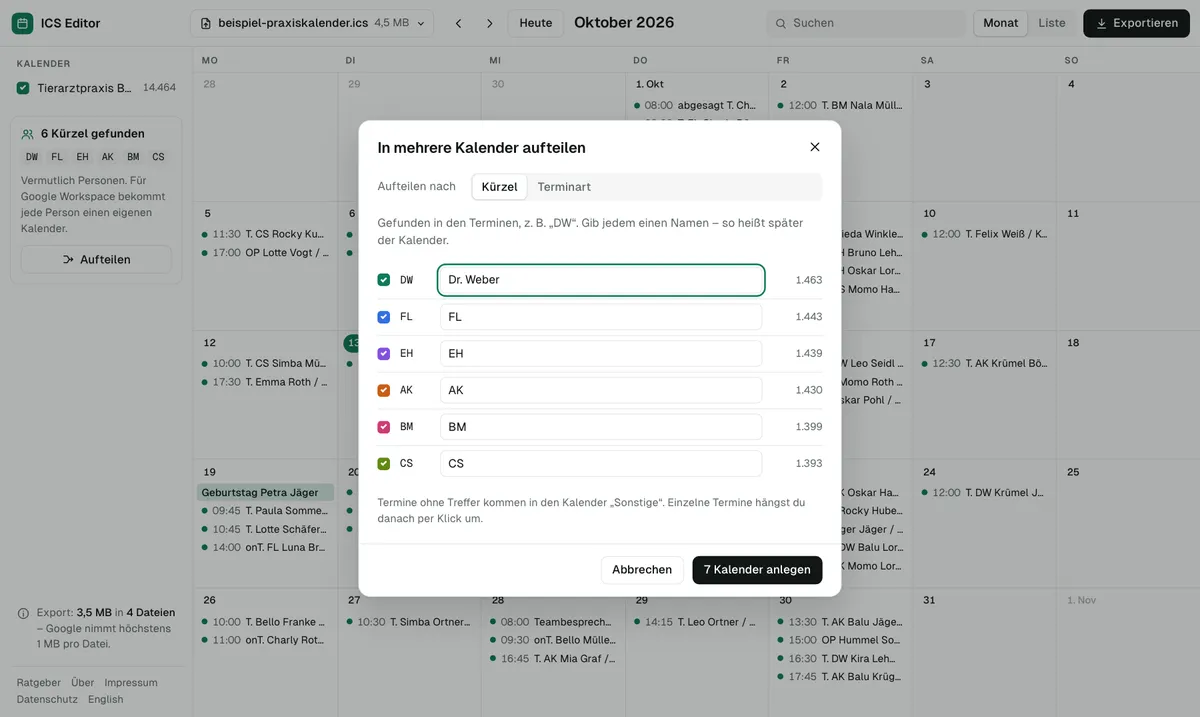
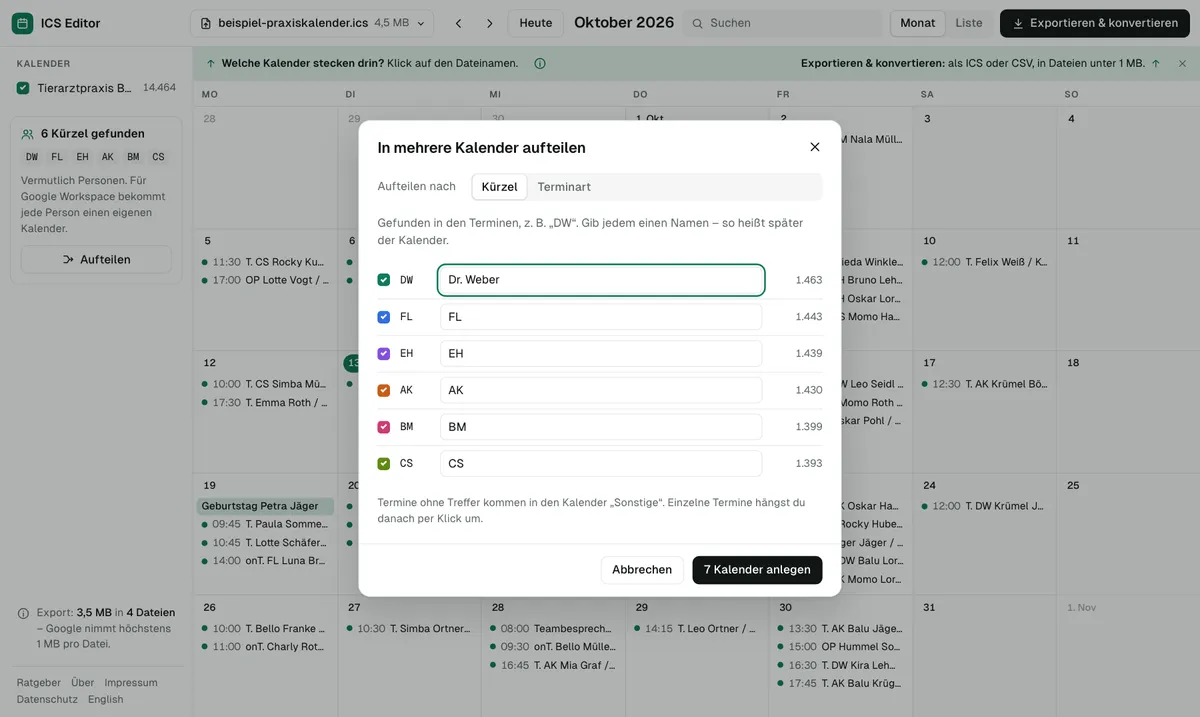
Editor: Erklär-Kasten unter der Leiste, Knopf „Exportieren & konvertieren“
- Hinweisleiste: links „Welche Kalender stecken drin? Klick auf den Dateinamen“, rechts „Exportieren & konvertieren“
- „i“ erklärt die Ansicht in vier Punkten und verlinkt den Ratgeber; Hinweise lassen sich ausblenden (wird gemerkt)
- Browser-Test für den Kasten, Bildschirmfotos aktualisiert

diff --git a/src/components/tool/Tool.tsx b/src/components/tool/Tool.tsx
@@ -68,6 +68,8 @@ function App({ h1, lead, links }: { h1: string; lead: string; links: Links }) {
   const [drawer, setDrawer] = useState(false);
   const [drag, setDrag] = useState(false);
   const [browsing, setBrowsing] = useState(false);
+  const [hints, setHints] = useState(true);
+  const [help, setHelp] = useState(false);
   const [note, setNote] = useState<{ msg: string; undo?: () => void; id: number } | null>(null);
   const fileRef = useRef<HTMLInputElement>(null);
   const searchRef = useRef<HTMLInputElement>(null);
@@ -76,6 +78,16 @@ function App({ h1, lead, links }: { h1: string; lead: string; links: Links }) {
   const convLatest = useMemo(() => latest<Loaded>(), []);
   const lastConvert = useRef('');
   const studio = screen === 'studio' && !!loaded;
+
+  useEffect(() => { try { if (localStorage.getItem('ics-editor-hints') === 'off') setHints(false); } catch { /* ohne Speicher: Hinweise zeigen */ } }, []);
+  useEffect(() => {
+    if (!help) return;
+    const close = (e: Event) => { if (e instanceof KeyboardEvent ? e.key === 'Escape' : !(e.target as HTMLElement).closest('.hint-iw')) setHelp(false); };
+    addEventListener('pointerdown', close);
+    addEventListener('keydown', close);
+    return () => { removeEventListener('pointerdown', close); removeEventListener('keydown', close); };
+  }, [help]);
+  const hideHints = () => { setHints(false); setHelp(false); try { localStorage.setItem('ics-editor-hints', 'off'); } catch { /* egal */ } };
 
   useEffect(() => {
     const idle = (window as unknown as { requestIdleCallback?: (f: () => void) => void }).requestIdleCallback;
@@ -294,7 +306,7 @@ function App({ h1, lead, links }: { h1: string; lead: string; links: Links }) {
                 <button type="button" aria-pressed={view === 'list' || !!q.trim()} onClick={() => setView('list')}>{t('k.list')}</button>
               </div>
               <button type="button" class="btn primary" aria-label={t('k.export')} onClick={() => { setActive(null); setDialog('export'); }}>
-                <Icon name="download" size={16} /><span class="bl">{t('k.export')}</span>
+                <Icon name="download" size={16} /><span class="bl">{t('k.exportShort')}<span class="bl2">{t('k.exportMore')}</span></span>
               </button>
             </div>
           </>
@@ -313,6 +325,26 @@ function App({ h1, lead, links }: { h1: string; lead: string; links: Links }) {
           </aside>
           {drawer && <div class="scrim" onClick={() => setDrawer(false)} />}
           <section class="view" aria-label={title}>
+            {hints && (
+              <div class="hints">
+                <p class="hint hint-l"><Icon name="up" size={14} /><H k="k.hint.cals" /></p>
+                <span class="hint-iw">
+                  <button type="button" class="ib hint-i" aria-label={t('k.hint.info')} title={t('k.hint.info')} aria-expanded={help} onClick={() => setHelp(!help)}><Icon name="info" size={16} /><span class="hint-il">{t('k.hint.info')}</span></button>
+                  {help && (
+                    <div class="help" role="dialog" aria-label={t('k.help.title')}>
+                      <strong>{t('k.help.title')}</strong>
+                      <ul>
+                        <H as="li" k="k.help.1" /><H as="li" k="k.help.2" /><H as="li" k="k.help.3" /><H as="li" k="k.help.4" />
+                      </ul>
+                      <a href={links.help}>{t('k.help.more')} →</a>
+                    </div>
+                  )}
+                </span>
+                <p class="hint hint-r"><H k="k.hint.export" /><Icon name="up" size={14} /></p>
+                <button type="button" class="ib hint-x" aria-label={t('k.hint.close')} title={t('k.hint.close')} onClick={hideHints}><Icon name="x" size={14} /></button>
+              </div>
+            )}
+            {!hints && <button type="button" class="ib hint-again" aria-label={t('k.hint.info')} title={t('k.hint.info')} onClick={() => { setHints(true); setHelp(true); }}><Icon name="info" size={16} /></button>}
             {issues > 0 && <div class="banner" role="status"><Icon name="warn" size={16} /> {t('k.tblBanner', { n: n(issues) })} <button type="button" class="link" onClick={() => setDialog('table')}>{t('k.tblFix')}</button></div>}
             <div class="view-in">
               {view === 'month' && !q.trim()

diff --git a/src/styles/site.css b/src/styles/site.css
@@ -168,6 +168,20 @@ html.studio-mode .tool-shell { position: fixed; inset: 0; z-index: 40; height: a
 .view { min-width: 0; min-height: 0; display: flex; flex-direction: column; }
 .view-in { flex: 1; min-height: 0; position: relative; }
 .view-in > * { position: absolute; inset: 0; }
+.view { position: relative; }
+.hints { position: relative; display: flex; align-items: center; gap: 12px; padding: 6px 8px 6px 14px; border-bottom: 1px solid var(--line); background: var(--accent-soft); font-size: 13px; }
+.hint { display: flex; align-items: center; gap: 6px; margin: 0; min-width: 0; }
+.hint svg { color: var(--accent-text); }
+.hint strong { font-weight: 600; }
+.hint-r { margin-left: auto; text-align: right; }
+.hint-i { width: 28px; height: 28px; color: var(--accent-text); }
+.hint-x { width: 26px; height: 26px; color: var(--muted); }
+.hints .ib:hover { background: color-mix(in srgb, var(--accent) 14%, transparent); }
+.hint-iw { position: relative; display: inline-flex; }
+.help { position: absolute; top: calc(100% + 8px); left: -12px; width: min(460px, calc(100vw - 32px)); z-index: 35; background: var(--bg); border: 1px solid var(--line); border-radius: 12px; box-shadow: var(--shadow); padding: 14px 16px; display: flex; flex-direction: column; gap: 8px; font-size: 14px; }
+.help ul { margin: 0; padding-left: 18px; display: flex; flex-direction: column; gap: 6px; }
+.help a { font-weight: 500; }
+.hint-again { position: absolute; right: 6px; top: 2px; z-index: 5; width: 26px; height: 26px; color: var(--muted); }
 .banner { display: flex; align-items: center; gap: 8px; padding: 8px 16px; background: var(--warn-soft); border-bottom: 1px solid var(--line); font-size: 13px; flex-wrap: wrap; }
 .banner svg { color: var(--warn); }
 .scrim { display: none; }
@@ -374,7 +388,9 @@ dialog.dlg::backdrop { background: var(--scrim); }
 .toast { position: absolute; left: 50%; bottom: 20px; transform: translateX(-50%); z-index: 70; background: var(--text); color: var(--bg); border-radius: 10px; padding: 10px 14px; display: flex; gap: 14px; align-items: center; box-shadow: var(--shadow); max-width: calc(100% - 32px); font-size: 14px; }
 .toast button { border: 0; background: none; color: inherit; font-weight: 600; text-decoration: underline; text-underline-offset: 3px; padding: 0; }
 
-@media (max-width: 1180px) { .search { width: 180px; } .app.loaded .brand { width: auto; } }
+@media (max-width: 1180px) { .search { width: 180px; } .app.loaded .brand { width: auto; } .bl2 { display: none; } }
+.hint-il { display: none; }
+@media (max-width: 900px) { .hint-l, .hint-r { display: none; } .hint-i { width: auto; padding: 0 8px; gap: 6px; display: inline-flex; font-size: 13px; } .hint-il { display: inline; } .hint-x { margin-left: auto; } }
 @media (max-width: 860px) {
   .menu-btn { display: inline-grid; }
   .app.loaded .brand .bt { display: none; }

diff --git a/src/i18n/ui.ts b/src/i18n/ui.ts
@@ -15,7 +15,19 @@ const de = {
   'k.view': 'Ansicht',
   'k.month': 'Monat',
   'k.list': 'Liste',
-  'k.export': 'Exportieren',
+  'k.export': 'Exportieren & konvertieren',
+  'k.exportShort': 'Exportieren',
+  'k.exportMore': ' & konvertieren',
+  'k.hint.cals': '<strong>Welche Kalender stecken drin?</strong> Klick auf den Dateinamen.',
+  'k.hint.export': '<strong>Exportieren &amp; konvertieren:</strong> als ICS oder CSV, in Dateien unter 1 MB.',
+  'k.hint.info': 'So funktioniert diese Ansicht',
+  'k.hint.close': 'Hinweise ausblenden',
+  'k.help.title': 'So funktioniert der ICS Editor',
+  'k.help.1': '<strong>Links</strong> stehen die Kalender deiner Datei. Mit dem Häkchen blendest du einen Kalender ein oder aus – das gilt auch für den Export.',
+  'k.help.2': '<strong>In der Mitte</strong> siehst du Monat oder Liste. Ein Klick auf einen Termin öffnet ihn rechts zum Bearbeiten.',
+  'k.help.3': '<strong>Der Dateiname oben</strong> zeigt alle Kalender der Datei mit Terminen, Zeitraum und Größe.',
+  'k.help.4': '<strong>Exportieren &amp; konvertieren</strong> erstellt ICS- oder CSV-Dateien für Google – automatisch unter 1 MB.',
+  'k.help.more': 'Ausführlich im Ratgeber',
   'k.fromDay': 'Ab {d}',
   'k.calendars': 'Kalender',
   'k.unsplit': 'Aufteilung aufheben',
@@ -593,7 +605,19 @@ const en: Dict = {
   'k.view': 'View',
   'k.month': 'Month',
   'k.list': 'List',
-  'k.export': 'Export',
+  'k.export': 'Export & convert',
+  'k.exportShort': 'Export',
+  'k.exportMore': ' & convert',
+  'k.hint.cals': '<strong>Which calendars are inside?</strong> Click the file name.',
+  'k.hint.export': '<strong>Export &amp; convert:</strong> as ICS or CSV, in files under 1 MB.',
+  'k.hint.info': 'How this view works',
+  'k.hint.close': 'Hide tips',
+  'k.help.title': 'How the ICS Editor works',
+  'k.help.1': '<strong>On the left</strong> are the calendars in your file. Tick or untick one to show or hide it – this also applies to the export.',
+  'k.help.2': '<strong>In the middle</strong> you see the month or a list. Click an event to edit it on the right.',
+  'k.help.3': '<strong>The file name at the top</strong> shows every calendar in the file with events, date range and size.',
+  'k.help.4': '<strong>Export &amp; convert</strong> creates ICS or CSV files for Google – automatically under 1 MB.',
+  'k.help.more': 'More in the guide',
   'k.fromDay': 'From {d}',
   'k.calendars': 'Calendars',
   'k.unsplit': 'Undo split',

diff --git a/tests/e2e/tool.spec.ts b/tests/e2e/tool.spec.ts
@@ -324,6 +324,25 @@ test('Offline nach dem ersten Besuch', async ({ page, context }) => {
   await context.setOffline(false);
 });
 
+test('Erklär-Kasten: Hinweise, Info mit Ratgeber-Link, ausblenden bleibt gemerkt', async ({ page }) => {
+  await sample(page);
+  await expect(page.getByText('Welche Kalender stecken drin?')).toBeVisible();
+  await expect(page.getByRole('button', { name: 'Exportieren & konvertieren' })).toBeVisible();
+  await page.getByRole('button', { name: 'So funktioniert diese Ansicht' }).click();
+  const help = page.getByRole('dialog', { name: 'So funktioniert der ICS Editor' });
+  await expect(help).toBeVisible();
+  await expect(help.getByRole('link', { name: /Ratgeber/ })).toHaveAttribute('href', /ics-datei-google-kalender-importieren\/$/);
+  await page.getByRole('button', { name: 'Hinweise ausblenden' }).click();
+  await expect(page.getByText('Welche Kalender stecken drin?')).toHaveCount(0);
+  await page.reload();
+  await ready(page);
+  await page.getByRole('button', { name: /Praxis-Kalender/ }).click();
+  await loaded(page);
+  await expect(page.getByText('Welche Kalender stecken drin?')).toHaveCount(0);
+  await page.getByRole('button', { name: 'So funktioniert diese Ansicht' }).click();
+  await expect(page.getByRole('dialog', { name: 'So funktioniert der ICS Editor' })).toBeVisible();
+});
+
 test('Englische Startseite und Sprachwechsel', async ({ page }) => {
   await page.goto('en/');
   await expect(page.getByRole('heading', { level: 1 })).toHaveText(/ICS Editor/);

diff --git a/src/components/tool/Studio.tsx b/src/components/tool/Studio.tsx
@@ -14,7 +14,7 @@ import type { UiKey } from '../../i18n/ui';
 export type View = 'month' | 'list';
 export interface ViewCal { key: string; name: string; events: number }
 export interface Active { id: number; key: string }
-export interface Links { home: string; guides: string; lang: string; langLabel: string; langCode: string; imprint: string; privacy: string; about: string }
+export interface Links { home: string; guides: string; help: string; lang: string; langLabel: string; langCode: string; imprint: string; privacy: string; about: string }
 
 export interface StudioProps {
   loaded: Loaded; table: TableInfo | null; viewReq: PlanRequest; plan: PlanResult | null;

diff --git a/src/components/tool/ui.tsx b/src/components/tool/ui.tsx
@@ -55,6 +55,7 @@ const ICONS: Record<string, ComponentChildren> = {
   left: <path d="M15 6l-6 6 6 6" />,
   right: <path d="M9 6l6 6-6 6" />,
   down: <path d="M7 10l5 5 5-5" />,
+  up: <path d="M12 19V5M6 11l6-6 6 6" />,
   x: <path d="M6 6l12 12M18 6L6 18" />,
   search: <><circle cx="11" cy="11" r="6.5" /><path d="M20 20l-4-4" /></>,
   upload: <path d="M12 16V4M7 9l5-5 5 5M5 20h14" />,
